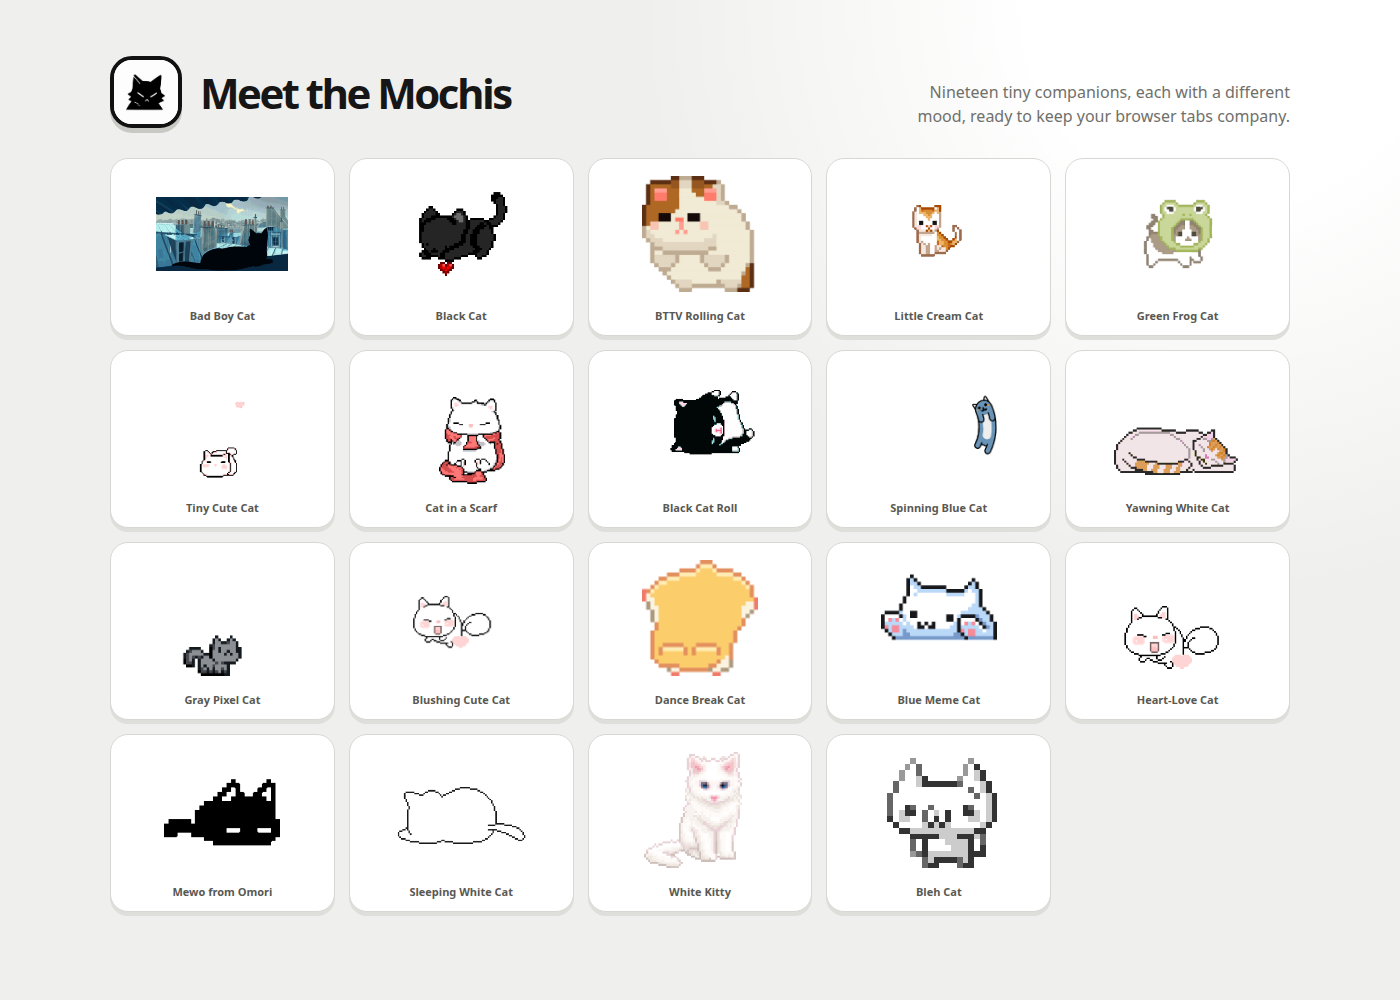
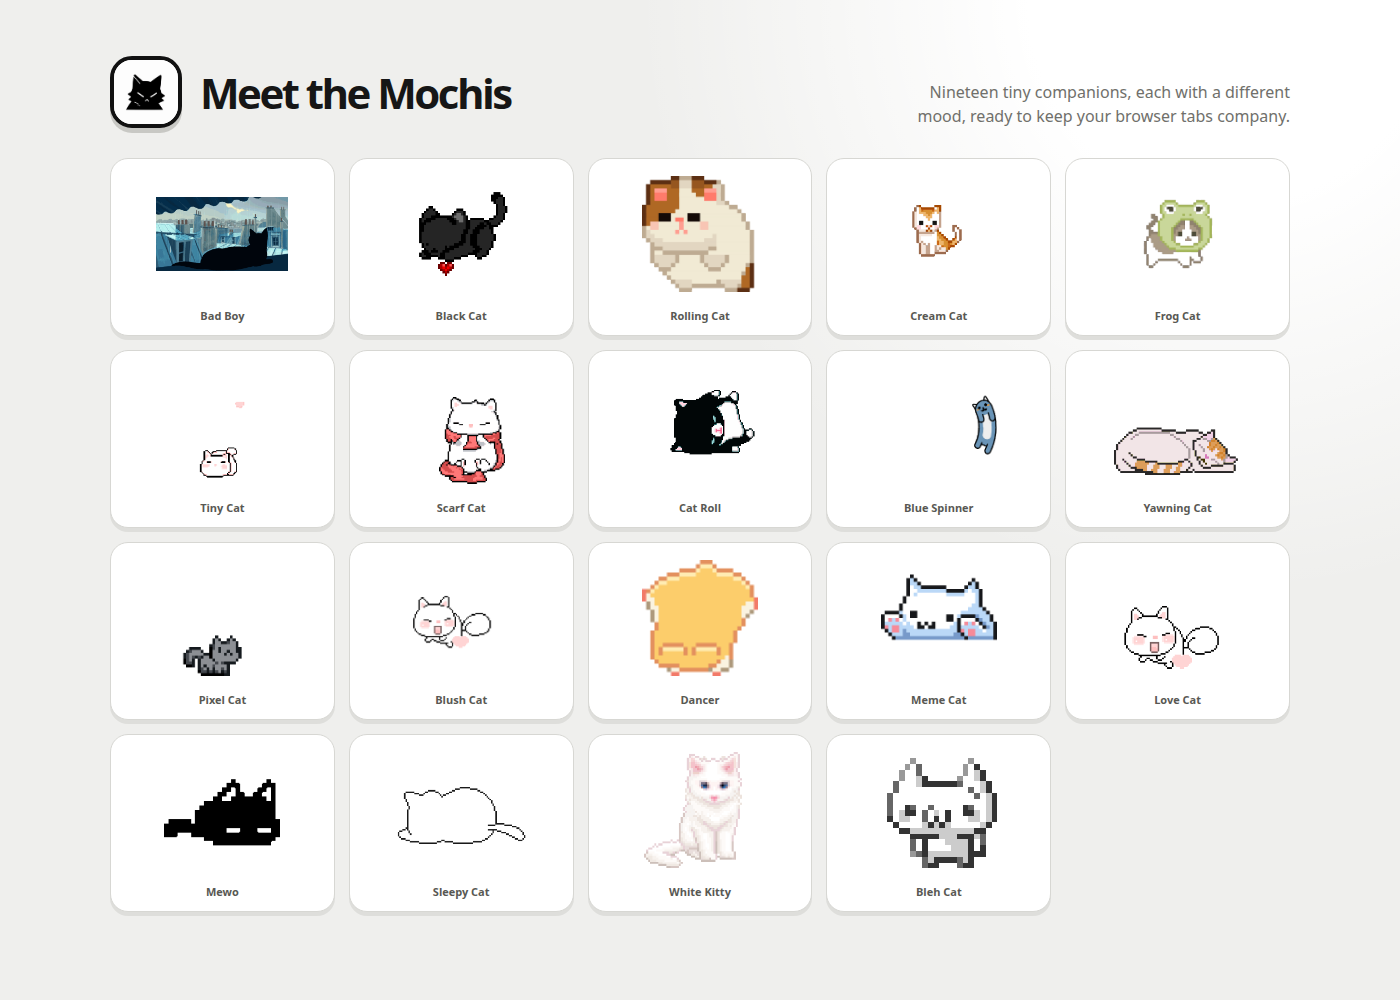
Improve tab recovery and simplify cat names

diff --git a/docs/cat-gallery.html b/docs/cat-gallery.html
@@ -31,23 +31,23 @@
       <p>Nineteen tiny companions, each with a different mood, ready to keep your browser tabs company.</p>
     </header>
     <section class="grid" aria-label="Mochi cat styles">
-      <article class="card"><img src="../assets/bad-boy.png" alt="Bad Boy Cat"><span>Bad Boy Cat</span></article>
+      <article class="card"><img src="../assets/bad-boy.png" alt="Bad Boy"><span>Bad Boy</span></article>
       <article class="card"><img src="../assets/black-cat.png" alt="Black Cat"><span>Black Cat</span></article>
-      <article class="card"><img src="../assets/bttv-rolling-cat.png" alt="BTTV Rolling Cat"><span>BTTV Rolling Cat</span></article>
-      <article class="card"><img src="../assets/little-cream-cat.png" alt="Little Cream Cat"><span>Little Cream Cat</span></article>
-      <article class="card"><img src="../assets/green-frog-cat.png" alt="Green Frog Cat"><span>Green Frog Cat</span></article>
-      <article class="card"><img src="../assets/tiny-cute-cat.png" alt="Tiny Cute Cat"><span>Tiny Cute Cat</span></article>
-      <article class="card"><img src="../assets/cat-in-a-scarf.png" alt="Cat in a Scarf"><span>Cat in a Scarf</span></article>
-      <article class="card"><img src="../assets/black-cat-roll.png" alt="Black Cat Roll"><span>Black Cat Roll</span></article>
-      <article class="card"><img src="../assets/spinning-blue-cat.png" alt="Spinning Blue Cat"><span>Spinning Blue Cat</span></article>
-      <article class="card"><img src="../assets/yawning-white-cat.png" alt="Yawning White Cat"><span>Yawning White Cat</span></article>
-      <article class="card"><img src="../assets/gray-pixel-cat.png" alt="Gray Pixel Cat"><span>Gray Pixel Cat</span></article>
-      <article class="card"><img src="../assets/blushing-cute-cat.png" alt="Blushing Cute Cat"><span>Blushing Cute Cat</span></article>
-      <article class="card"><img src="../assets/dance-break.png" alt="Dance Break Cat"><span>Dance Break Cat</span></article>
-      <article class="card"><img src="../assets/blue-meme-cat.png" alt="Blue Meme Cat"><span>Blue Meme Cat</span></article>
-      <article class="card"><img src="../assets/heart-love-cat.png" alt="Heart-Love Cat"><span>Heart-Love Cat</span></article>
-      <article class="card"><img src="../assets/mewo-omori.png" alt="Mewo from Omori"><span>Mewo from Omori</span></article>
-      <article class="card"><img src="../assets/white-sleeping-cat.png" alt="Sleeping White Cat"><span>Sleeping White Cat</span></article>
+      <article class="card"><img src="../assets/bttv-rolling-cat.png" alt="Rolling Cat"><span>Rolling Cat</span></article>
+      <article class="card"><img src="../assets/little-cream-cat.png" alt="Cream Cat"><span>Cream Cat</span></article>
+      <article class="card"><img src="../assets/green-frog-cat.png" alt="Frog Cat"><span>Frog Cat</span></article>
+      <article class="card"><img src="../assets/tiny-cute-cat.png" alt="Tiny Cat"><span>Tiny Cat</span></article>
+      <article class="card"><img src="../assets/cat-in-a-scarf.png" alt="Scarf Cat"><span>Scarf Cat</span></article>
+      <article class="card"><img src="../assets/black-cat-roll.png" alt="Cat Roll"><span>Cat Roll</span></article>
+      <article class="card"><img src="../assets/spinning-blue-cat.png" alt="Blue Spinner"><span>Blue Spinner</span></article>
+      <article class="card"><img src="../assets/yawning-white-cat.png" alt="Yawning Cat"><span>Yawning Cat</span></article>
+      <article class="card"><img src="../assets/gray-pixel-cat.png" alt="Pixel Cat"><span>Pixel Cat</span></article>
+      <article class="card"><img src="../assets/blushing-cute-cat.png" alt="Blush Cat"><span>Blush Cat</span></article>
+      <article class="card"><img src="../assets/dance-break.png" alt="Dancer"><span>Dancer</span></article>
+      <article class="card"><img src="../assets/blue-meme-cat.png" alt="Meme Cat"><span>Meme Cat</span></article>
+      <article class="card"><img src="../assets/heart-love-cat.png" alt="Love Cat"><span>Love Cat</span></article>
+      <article class="card"><img src="../assets/mewo-omori.png" alt="Mewo"><span>Mewo</span></article>
+      <article class="card"><img src="../assets/white-sleeping-cat.png" alt="Sleepy Cat"><span>Sleepy Cat</span></article>
       <article class="card"><img src="../assets/white-kitty.png" alt="White Kitty"><span>White Kitty</span></article>
       <article class="card"><img src="../assets/bleh-cat.png" alt="Bleh Cat"><span>Bleh Cat</span></article>
     </section>

diff --git a/content.js b/content.js
@@ -1,27 +1,32 @@
 (() => {
+  if (window.__mochiContentInitialized) {
+    return;
+  }
+  window.__mochiContentInitialized = true;
+
   const ROOT_ID = "desktop-cat-root";
   const CAT_ID = "desktop-cat";
   const CAT_SIZE = 96;
   const MARGIN = 8;
 
   const SKINS = Object.freeze({
-    badBoy: { label: "Bad Boy Cat", file: "bad-boy" },
+    badBoy: { label: "Bad Boy", file: "bad-boy" },
     blackCat: { label: "Black Cat", file: "black-cat" },
-    bttvRolling: { label: "BTTV Rolling Cat", file: "bttv-rolling-cat" },
-    littleCream: { label: "Little Cream Cat", file: "little-cream-cat" },
-    greenFrog: { label: "Green Frog Cat", file: "green-frog-cat" },
-    tinyCute: { label: "Tiny Cute Cat", file: "tiny-cute-cat" },
-    scarfCat: { label: "Cat in a Scarf", file: "cat-in-a-scarf" },
-    blackCatRoll: { label: "Black Cat Roll", file: "black-cat-roll" },
-    spinningBlue: { label: "Spinning Blue Cat", file: "spinning-blue-cat" },
-    yawningWhite: { label: "Yawning White Cat", file: "yawning-white-cat" },
-    grayPixel: { label: "Gray Pixel Cat", file: "gray-pixel-cat" },
-    blushingCute: { label: "Blushing Cute Cat", file: "blushing-cute-cat" },
-    danceBreak: { label: "Dance Break Cat", file: "dance-break" },
-    blueMeme: { label: "Blue Meme Cat", file: "blue-meme-cat" },
-    heartLove: { label: "Heart-Love Cat", file: "heart-love-cat" },
-    mewoOmori: { label: "Mewo from Omori", file: "mewo-omori" },
-    whiteSleeping: { label: "Sleeping White Cat", file: "white-sleeping-cat" },
+    bttvRolling: { label: "Rolling Cat", file: "bttv-rolling-cat" },
+    littleCream: { label: "Cream Cat", file: "little-cream-cat" },
+    greenFrog: { label: "Frog Cat", file: "green-frog-cat" },
+    tinyCute: { label: "Tiny Cat", file: "tiny-cute-cat" },
+    scarfCat: { label: "Scarf Cat", file: "cat-in-a-scarf" },
+    blackCatRoll: { label: "Cat Roll", file: "black-cat-roll" },
+    spinningBlue: { label: "Blue Spinner", file: "spinning-blue-cat" },
+    yawningWhite: { label: "Yawning Cat", file: "yawning-white-cat" },
+    grayPixel: { label: "Pixel Cat", file: "gray-pixel-cat" },
+    blushingCute: { label: "Blush Cat", file: "blushing-cute-cat" },
+    danceBreak: { label: "Dancer", file: "dance-break" },
+    blueMeme: { label: "Meme Cat", file: "blue-meme-cat" },
+    heartLove: { label: "Love Cat", file: "heart-love-cat" },
+    mewoOmori: { label: "Mewo", file: "mewo-omori" },
+    whiteSleeping: { label: "Sleepy Cat", file: "white-sleeping-cat" },
     whiteKitty: { label: "White Kitty", file: "white-kitty" },
     blehCat: { label: "Bleh Cat", file: "bleh-cat" }
   });

diff --git a/popup.html b/popup.html
@@ -19,23 +19,23 @@
       <section class="skin-picker" aria-label="Choose a cat">
         <label for="cat-select">Cat style</label>
         <select id="cat-select">
-          <option value="badBoy">Bad Boy Cat</option>
+          <option value="badBoy">Bad Boy</option>
           <option value="blackCat">Black Cat</option>
-          <option value="bttvRolling">BTTV Rolling Cat</option>
-          <option value="littleCream">Little Cream Cat</option>
-          <option value="greenFrog">Green Frog Cat</option>
-          <option value="tinyCute">Tiny Cute Cat</option>
-          <option value="scarfCat">Cat in a Scarf</option>
-          <option value="blackCatRoll">Black Cat Roll</option>
-          <option value="spinningBlue">Spinning Blue Cat</option>
-          <option value="yawningWhite">Yawning White Cat</option>
-          <option value="grayPixel">Gray Pixel Cat</option>
-          <option value="blushingCute">Blushing Cute Cat</option>
-          <option value="danceBreak">Dance Break Cat</option>
-          <option value="blueMeme">Blue Meme Cat</option>
-          <option value="heartLove">Heart-Love Cat</option>
-          <option value="mewoOmori">Mewo from Omori</option>
-          <option value="whiteSleeping">Sleeping White Cat</option>
+          <option value="bttvRolling">Rolling Cat</option>
+          <option value="littleCream">Cream Cat</option>
+          <option value="greenFrog">Frog Cat</option>
+          <option value="tinyCute">Tiny Cat</option>
+          <option value="scarfCat">Scarf Cat</option>
+          <option value="blackCatRoll">Cat Roll</option>
+          <option value="spinningBlue">Blue Spinner</option>
+          <option value="yawningWhite">Yawning Cat</option>
+          <option value="grayPixel">Pixel Cat</option>
+          <option value="blushingCute">Blush Cat</option>
+          <option value="danceBreak">Dancer</option>
+          <option value="blueMeme">Meme Cat</option>
+          <option value="heartLove">Love Cat</option>
+          <option value="mewoOmori">Mewo</option>
+          <option value="whiteSleeping">Sleepy Cat</option>
           <option value="whiteKitty">White Kitty</option>
           <option value="blehCat">Bleh Cat</option>
         </select>

diff --git a/background.js b/background.js
@@ -1,21 +1,21 @@
 const SKIN_LABELS = Object.freeze({
-  badBoy: "Bad Boy Cat",
+  badBoy: "Bad Boy",
   blackCat: "Black Cat",
-  bttvRolling: "BTTV Rolling Cat",
-  littleCream: "Little Cream Cat",
-  greenFrog: "Green Frog Cat",
-  tinyCute: "Tiny Cute Cat",
-  scarfCat: "Cat in a Scarf",
-  blackCatRoll: "Black Cat Roll",
-  spinningBlue: "Spinning Blue Cat",
-  yawningWhite: "Yawning White Cat",
-  grayPixel: "Gray Pixel Cat",
-  blushingCute: "Blushing Cute Cat",
-  danceBreak: "Dance Break Cat",
-  blueMeme: "Blue Meme Cat",
-  heartLove: "Heart-Love Cat",
-  mewoOmori: "Mewo from Omori",
-  whiteSleeping: "Sleeping White Cat",
+  bttvRolling: "Rolling Cat",
+  littleCream: "Cream Cat",
+  greenFrog: "Frog Cat",
+  tinyCute: "Tiny Cat",
+  scarfCat: "Scarf Cat",
+  blackCatRoll: "Cat Roll",
+  spinningBlue: "Blue Spinner",
+  yawningWhite: "Yawning Cat",
+  grayPixel: "Pixel Cat",
+  blushingCute: "Blush Cat",
+  danceBreak: "Dancer",
+  blueMeme: "Meme Cat",
+  heartLove: "Love Cat",
+  mewoOmori: "Mewo",
+  whiteSleeping: "Sleepy Cat",
   whiteKitty: "White Kitty",
   blehCat: "Bleh Cat"
 });
@@ -58,6 +58,34 @@ async function persistAndBroadcast(nextState) {
       }).catch(() => undefined))
   );
 }
+
+function isEligibleTab(tab) {
+  const url = typeof tab.url === "string" ? tab.url : "";
+  return tab.id !== undefined && !/^(chrome|edge|about|devtools|view-source|chrome-extension):/i.test(url);
+}
+
+async function rehydrateTab(tabId) {
+  try {
+    await chrome.scripting.insertCSS({ target: { tabId }, files: ["cat.css"] });
+    await chrome.scripting.executeScript({ target: { tabId }, files: ["content.js"] });
+  } catch (_error) {
+    // Protected browser pages and tabs without host access are expected to reject injection.
+  }
+}
+
+async function rehydrateOpenTabs() {
+  await stateReady;
+  const tabs = await chrome.tabs.query({});
+  await Promise.all(tabs.filter(isEligibleTab).map((tab) => rehydrateTab(tab.id)));
+}
+
+chrome.runtime.onInstalled.addListener(() => {
+  rehydrateOpenTabs();
+});
+
+chrome.runtime.onStartup.addListener(() => {
+  rehydrateOpenTabs();
+});
 
 chrome.runtime.onMessage.addListener((message, _sender, sendResponse) => {
   if (!message?.type) {

diff --git a/verify_extension.py b/verify_extension.py
@@ -10,9 +10,10 @@ assert manifest["name"] == "Mochi"
 assert manifest["action"]["default_title"] == "Mochi"
 assert manifest["content_scripts"][0]["matches"] == ["<all_urls>"]
 assert "storage" in manifest["permissions"]
+assert "scripting" in manifest["permissions"]
 assert manifest["icons"]["128"] == "assets/mochi-icon-128.png"
 assert manifest["action"]["default_icon"]["32"] == "assets/mochi-icon-32.png"
-assert "host_permissions" not in manifest
+assert manifest["host_permissions"] == ["<all_urls>"]
 resources = manifest["web_accessible_resources"][0]["resources"]
 assert "assets/*.gif" in resources
 assert "assets/*.png" in resources
@@ -66,6 +67,9 @@ assert "XMLHttpRequest" not in source
 assert "desktop-cat:set-skin" in source
 assert "desktop-cat:get-shared-state" in source
 assert "desktop-cat:sync-state" in source
+assert "chrome.scripting" in source
+assert "rehydrateOpenTabs" in source
+assert "__mochiContentInitialized" in source
 assert "github.com/koustavdatascience" in source
 assert "id=\"cat-select\"" in source
 assert "requestAnimationFrame" not in source

diff --git a/README.md b/README.md
@@ -24,7 +24,7 @@ Mochi is intentionally small and a little unnecessary. It adds a bit of personal
 
 ![Mochi popup showcase](docs/screenshots/popup-showcase.png)
 
-The popup follows Mochi’s official black-and-white logo with a compact monochrome control panel, rounded cards, high-contrast toggles, and a small kawaii touch.
+The popup follows Mochi’s official black-and-white logo with a compact monochrome control panel, rounded cards, high-contrast toggles, and a small kawaii touch. When Mochi is updated or the browser starts, it also attempts to restore itself into already-open eligible tabs without requiring a manual page refresh.
 
 ![Mochi cat style gallery](docs/screenshots/cat-gallery.png)
 
@@ -34,7 +34,7 @@ Mochi currently includes **nineteen cat styles**, ranging from pixel-art compani
 
 | Feature | What it does |
 | --- | --- |
-| **Nineteen cat styles** | Choose the animation that matches your mood. Each style has an animated GIF and a matching PNG pause frame. |
+| **Nineteen cat styles** | Choose the animation that matches your mood. Each style has an animated GIF and a matching PNG pause frame, with short names that are easy to scan. |
 | **Cross-tab synchronization** | Your selected cat, visibility setting, and pause state are shared across eligible tabs. |
 | **Drag-and-drop positioning** | Move Mochi around the page and leave it wherever you like. |
 | **Pause mode** | Freeze the current cat when you need a quiet, still companion. |
@@ -73,7 +73,7 @@ Chrome’s unpacked-extension workflow is documented in the official extension d
 
 ### Updating a local installation
 
-Pull the latest changes, return to the extensions page, and click **Reload** on the Mochi card. A reload is needed after source files or assets change because the browser keeps the currently loaded extension bundle in memory.
+Pull the latest changes, return to the extensions page, and click **Reload** on the Mochi card. Mochi now attempts to restore itself into already-open eligible tabs after an extension update or browser startup. A normal page refresh is still useful when a site was already open before Mochi was first installed, or when a protected page has not granted the extension access yet.
 
 ## Using Mochi
 
@@ -91,27 +91,27 @@ The extension persists shared preferences with the browser’s local extension s
 
 ## Cat styles
 
-The current style inventory is listed below. Names are intentionally descriptive so the selector remains easy to understand even when the animation is small.
+The current style inventory is listed below. Names are intentionally short so the selector remains easy to scan even when the popup is compact.
 
 | Style | Asset stem |
 | --- | --- |
-| Bad Boy Cat | `bad-boy` |
+| Bad Boy | `bad-boy` |
 | Black Cat | `black-cat` |
-| BTTV Rolling Cat | `bttv-rolling-cat` |
-| Little Cream Cat | `little-cream-cat` |
-| Green Frog Cat | `green-frog-cat` |
-| Tiny Cute Cat | `tiny-cute-cat` |
-| Cat in a Scarf | `cat-in-a-scarf` |
-| Black Cat Roll | `black-cat-roll` |
-| Spinning Blue Cat | `spinning-blue-cat` |
-| Yawning White Cat | `yawning-white-cat` |
-| Gray Pixel Cat | `gray-pixel-cat` |
-| Blushing Cute Cat | `blushing-cute-cat` |
-| Dance Break Cat | `dance-break` |
-| Blue Meme Cat | `blue-meme-cat` |
-| Heart-Love Cat | `heart-love-cat` |
-| Mewo from Omori | `mewo-omori` |
-| Sleeping White Cat | `white-sleeping-cat` |
+| Rolling Cat | `bttv-rolling-cat` |
+| Cream Cat | `little-cream-cat` |
+| Frog Cat | `green-frog-cat` |
+| Tiny Cat | `tiny-cute-cat` |
+| Scarf Cat | `cat-in-a-scarf` |
+| Cat Roll | `black-cat-roll` |
+| Blue Spinner | `spinning-blue-cat` |
+| Yawning Cat | `yawning-white-cat` |
+| Pixel Cat | `gray-pixel-cat` |
+| Blush Cat | `blushing-cute-cat` |
+| Dancer | `dance-break` |
+| Meme Cat | `blue-meme-cat` |
+| Love Cat | `heart-love-cat` |
+| Mewo | `mewo-omori` |
+| Sleepy Cat | `white-sleeping-cat` |
 | White Kitty | `white-kitty` |
 | Bleh Cat | `bleh-cat` |
 
@@ -126,7 +126,7 @@ assets/<style>.png   # first-frame version used while paused
 
 Mochi targets Manifest V3-compatible Chromium browsers. The content script is configured for regular web pages, but browsers intentionally restrict extensions from injecting into browser-owned pages and other protected surfaces. Mochi therefore will not appear on pages such as `chrome://extensions`, the Chrome Web Store, or other restricted browser UI pages.
 
-The extension does not request host permissions beyond the content-script match pattern in the manifest. Its only explicit API permission is `storage`, which is used to synchronize Mochi’s local settings between the popup, background service worker, and eligible tabs.
+The extension uses `storage` for shared preferences and `scripting` plus `<all_urls>` host access to restore the same local content script into already-open eligible tabs after an extension update or browser startup. It does not fetch remote content or send page data anywhere. This recovery path avoids making users manually reload every page after Mochi is reloaded.
 
 ## Privacy
 
